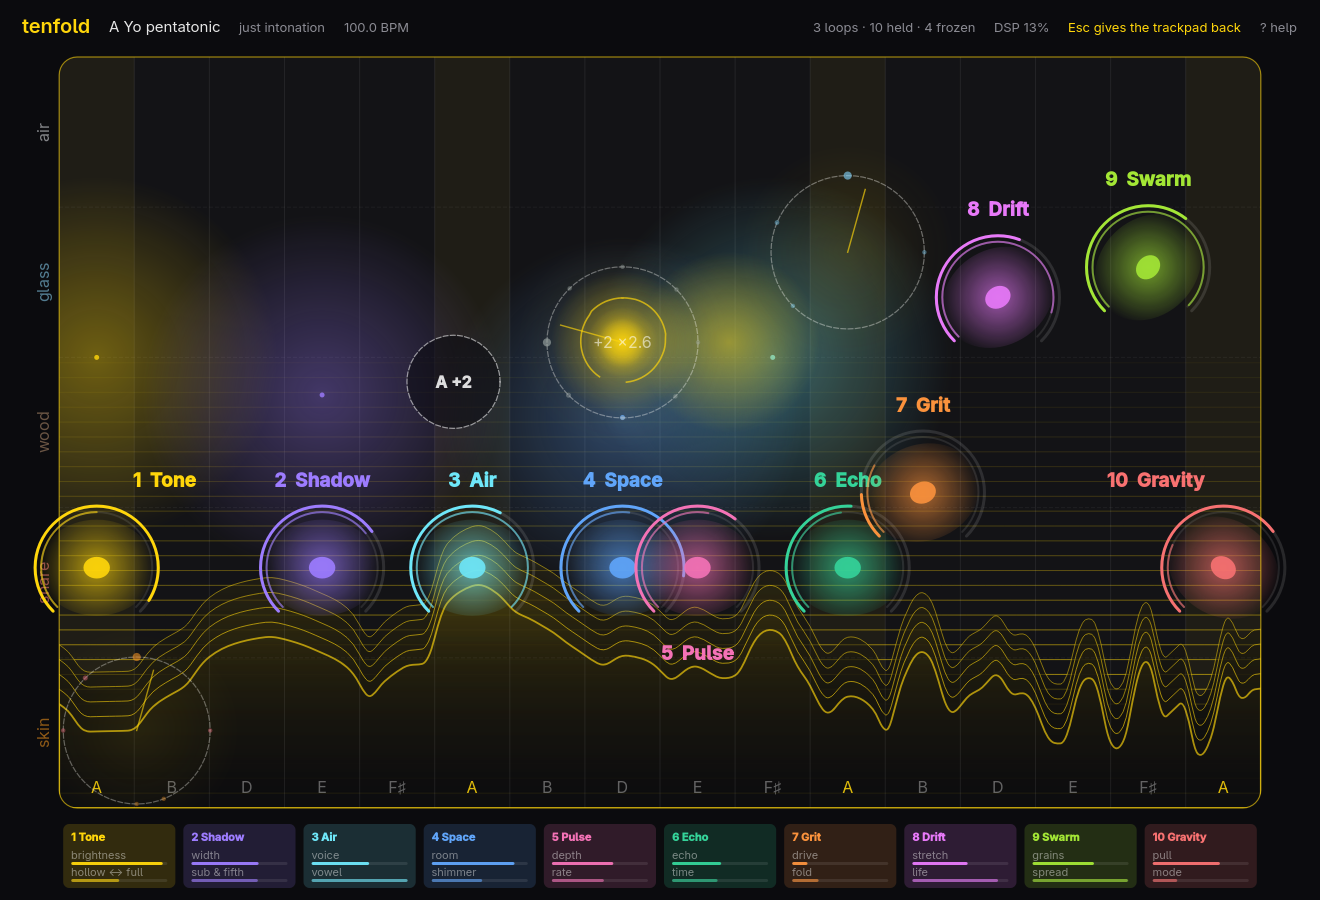
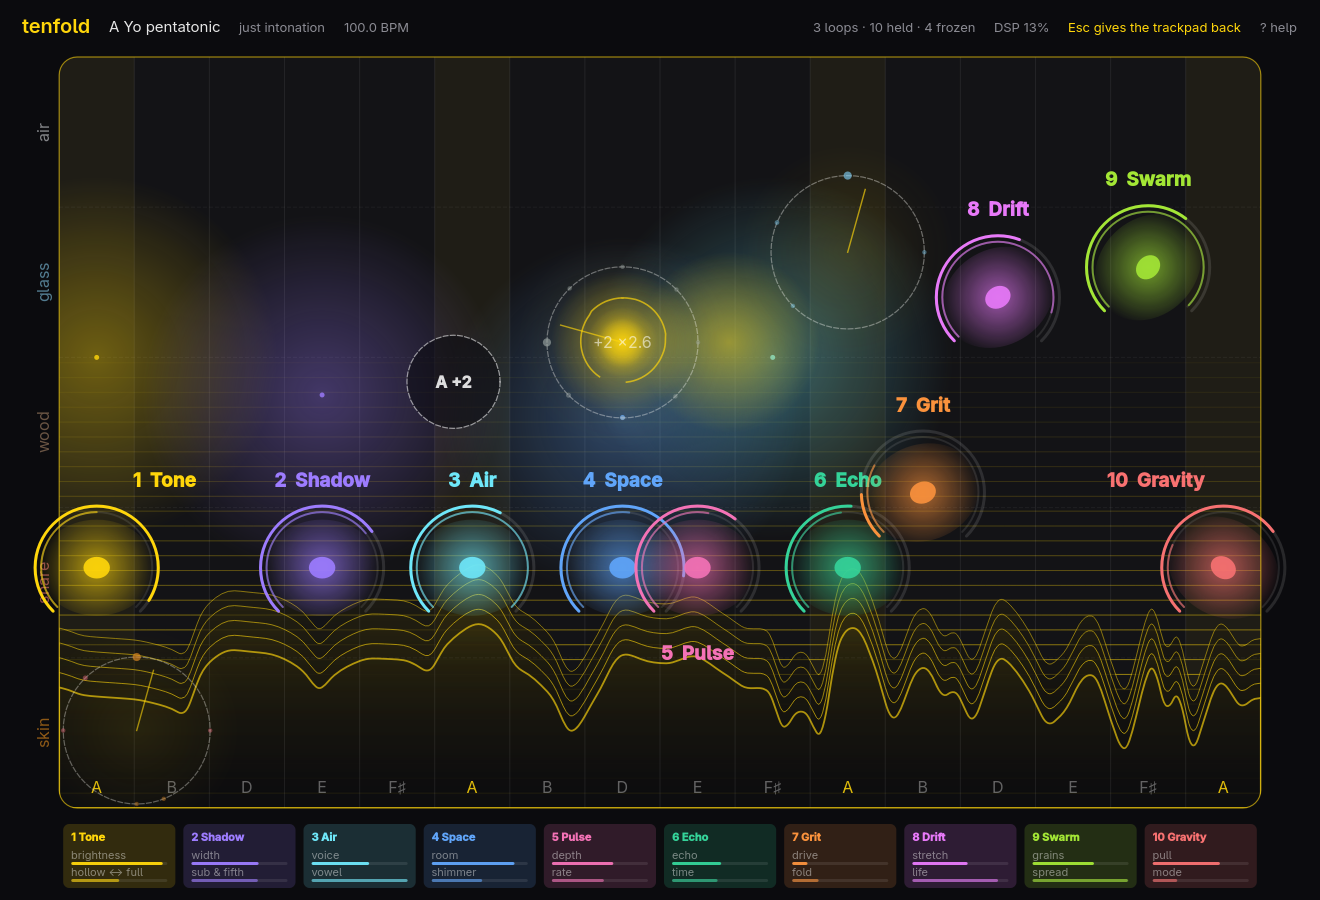
One finger blooms; the low end stays clear
A new voice opens from dark to bright over its first seconds, partials
arriving from the bottom up, breathing and flickering as you lean in.
Contact size only darkens a flat finger, not a fingertip. Sympathetic
ringing skips everything under ~120 Hz and can't stack. The master sums
the bass to mono and compresses the band under 150 Hz. Wood rings its
upper modes on a hard hit, the contact click is band-limited, a loop's
height sets how wet it is, a swipe hushes the notes its fingers struck,
and only a finger lost for one frame is re-attached.

Changed region(s): [[0.0311, 0.6222, 0.9629, 0.84]]

diff --git a/src/voices.h b/src/voices.h
@@ -65,6 +65,9 @@ struct DroneVoice {
     // Sympathetic ring: how much each partial has been set ringing by a
     // strike whose modes sit on it, decaying on its own.
     float freq[K], sym[K];
+    // Faster shimmer per partial, opened up by leaning into the pad.
+    float flick[K];
+    float age = 0, breathPhase = 0;
     float driftPitch = 0;
 
     Delay comb;
@@ -128,7 +131,10 @@ struct DroneVoice {
             driftA[i] = rng.bipolar();
             freq[i] = 0;
             sym[i] = 0;
+            flick[i] = 0;
         }
+        age = 0;
+        breathPhase = rng.unit();
         comb.clear();
         f1.reset();
         f2.reset();
@@ -159,23 +165,39 @@ struct DroneVoice {
             return;
         }
 
-        // Slow life: every partial wanders in pitch and level on its own.
+        // Slow life: every partial wanders in pitch and level on its own,
+        // and a quicker flicker rides on the upper ones as you lean in.
         const float life = tp.life;
         const float walk = std::sqrt(dt) * 0.9f;
+        const float quick = std::sqrt(dt) * 3.5f;
         for (int i = 0; i < K; ++i) {
             driftF[i] = clampf(driftF[i] * (1.0f - dt * 0.3f) + rng.bipolar() * walk, -1.0f, 1.0f);
             driftA[i] = clampf(driftA[i] * (1.0f - dt * 0.5f) + rng.bipolar() * walk, -1.0f, 1.0f);
+            flick[i] = clampf(flick[i] * (1.0f - dt * 6.0f) + rng.bipolar() * quick, -1.0f, 1.0f);
         }
+        age += dt;
+        // A slow breath of the whole spectrum, a few seconds long.
+        breathPhase += dt * (0.09f + 0.05f * life);
+        if (breathPhase > 1.0f)
+            breathPhase -= 1.0f;
         driftPitch = clampf(driftPitch * (1.0f - dt * 0.2f) + rng.bipolar() * walk * 0.15f, -1.0f, 1.0f);
 
         const float f0 = midiToHz(m + driftPitch * life * 0.12f);
-        const float alpha = lerpf(2.3f, 0.35f, clampf(tp.bright + 0.25f * p - 0.2f * sz, 0.0f, 1.0f));
+        // The bloom: a new voice starts dark and opens over its first few
+        // seconds, its partials arriving one after another from the bottom
+        // up. Leaning in opens it further; the breath keeps it moving.
+        const float bloom = 0.45f * std::exp(-age / 0.9f) - 0.12f * (1.0f - std::exp(-age / 2.5f));
+        const float breath = 0.06f * (0.4f + life) * std::sin(kTwoPi * breathPhase);
+        const float lean = 0.3f * p * p;
+        // A flat finger (bigger than a fingertip) is warmer and rounder.
+        const float flat = clampf(sz - 1.0f, 0.0f, 1.5f);
+        const float alpha = lerpf(2.3f, 0.35f, clampf(tp.bright + lean - 0.2f * flat + breath, 0.0f, 1.0f)) + bloom;
         const float evenGain = clampf(2.0f * tp.hollow, 0.0f, 1.0f);
         const float oddGain = clampf(2.0f * (1.0f - tp.hollow), 0.0f, 1.0f);
         const float B = tp.stretch * tp.stretch * 0.004f;
         const float widthRatio = tp.width * 0.0105f;
         float form[3];
-        vowelFormants(tp.vowel, form);
+        vowelFormants(clampf(tp.vowel + 0.12f * life * std::sin(kTwoPi * breathPhase * 0.7f + 1.3f), 0.0f, 1.0f), form);
         const float formantAmt = clampf(tp.voice * 1.3f, 0.0f, 1.0f);
         const float voicePan = clampf((x - 0.5f) * 0.9f, -0.6f, 0.6f);
 
@@ -185,7 +207,7 @@ struct DroneVoice {
             const float h = harm[i];
             float a;
             if (h == 0.5f)
-                a = 0.55f * tp.shadow + 0.35f * sz;
+                a = 0.55f * tp.shadow + 0.3f * clampf(sz - 1.0f, 0.0f, 1.5f);
             else if (h == 1.5f)
                 a = 0.3f * tp.shadow;
             else {
@@ -209,6 +231,13 @@ struct DroneVoice {
                 a *= lerpf(1.0f, env3 * 1.6f, formantAmt);
             }
             a *= 1.0f + life * 0.45f * driftA[i];
+            if (h > 4.0f)
+                a *= 1.0f + (0.15f + 0.6f * p) * life * flick[i];
+            if (!frozen) {
+                const float arrive = 0.035f * std::pow(h, 0.9f);
+                const float u = clampf((age - arrive) / 0.45f, 0.0f, 1.0f);
+                a *= u * u * (3.0f - 2.0f * u);
+            }
             amps[i] = a;
             energy += a * a;
             // Each ear gets a slightly different frequency, so partials beat
@@ -283,12 +312,20 @@ struct DroneVoice {
             return;
         // Only the few partials that can sit near each mode are checked: the
         // nearest harmonics, plus the sub and the fifth.
+        // Nothing rings below about 120 Hz: a kick that set the drone's
+        // fundamental booming would only pile up sub. Each partial has a cap
+        // and fills towards it more slowly the fuller it is, so a run of
+        // kicks can't stack.
+        constexpr float cap = 1.2f;
         auto ring = [&](int i, float hz, float amp) {
             if (i < 0 || i >= K || freq[i] <= 0)
                 return;
             const float off = std::fabs(freq[i] / hz - 1.0f);
-            if (off < 0.02f)
-                sym[i] = std::min(2.5f, sym[i] + amp * (1.0f - off / 0.02f) * vel * 1.4f);
+            if (off >= 0.02f)
+                return;
+            const float lowCut = clampf((freq[i] - 90.0f) / 130.0f, 0.0f, 1.0f);
+            const float add = amp * (1.0f - off / 0.02f) * vel * 1.4f * lowCut * lowCut;
+            sym[i] = std::min(cap, sym[i] + add * (1.0f - sym[i] / cap));
         };
         for (int m = 0; m < modes; ++m) {
             if (modeAmp[m] <= 0)
@@ -359,8 +396,8 @@ inline const Material &material(int i) {
          0.28f, 1.1f, 0.35f, 0.02f, 1.1f, 0, 0.7f, 0.11f, 4200.0f, 1.0f, 0},
         // Wood: a tuned bar, upper modes dying much faster than the note.
         {{1, 3.98f, 9.38f, 15.6f, 2.76f, 5.40f, 8.93f, 13.3f, 18.6f, 1.0f, 2.0f, 4.0f, 23.1f, 27.9f, 6.3f, 11.7f},
-         {1, .42f, .2f, .09f, .1f, .06f, .04f, .03f, .02f, .0f, .08f, .05f, .015f, .01f, .03f, .02f},
-         1.3f, 2.2f, 0.015f, 0.01f, 0.18f, 6.0f, 1.2f, 0.005f, 0, 1.6f, 0},
+         {1, .7f, .42f, .22f, .14f, .1f, .08f, .06f, .04f, .0f, .08f, .07f, .03f, .02f, .05f, .04f},
+         1.3f, 1.6f, 0.015f, 0.01f, 0.18f, 6.0f, 1.2f, 0.005f, 0, 1.6f, 0},
         // Glass: church-bell partials, the hum below the note, a long ring.
         {{0.5f, 1, 1.183f, 1.506f, 2.0f, 2.514f, 2.662f, 3.011f, 4.166f, 5.433f, 6.796f, 8.215f, 9.67f, 11.2f, 12.8f, 14.4f},
          {.55f, 1, .7f, .5f, .6f, .35f, .3f, .25f, .2f, .15f, .1f, .08f, .06f, .05f, .04f, .03f},
@@ -393,6 +430,7 @@ struct StrikeVoice {
     int pulseLen = 1, pulsePos = 0;
     float pulseNorm = 1;
     float fade = 1, fadeStep = 0; // a stolen voice fades instead of cutting
+    float wet = 1;                // how much goes to the echo and the room
     Svf noiseF, clickF;
     Rng rng;
 
@@ -419,14 +457,14 @@ struct StrikeVoice {
             // Higher modes and higher notes ring shorter, as in any real body;
             // a hard hit drives the upper modes harder, so they also last
             // longer above the noise.
-            float t60 = t60base / (1.0f + slope * float(i) * ratio * 0.25f / (1.0f + 1.2f * vel * vel));
+            float t60 = t60base / (1.0f + slope * float(i) * ratio * 0.25f / (1.0f + 3.0f * vel * vel));
             t60 *= clampf(std::pow(220.0f / std::max(f, 20.0f), 0.3f), 0.25f, 2.5f);
             w0[i] = kTwoPi * f / rate;
             hz[i] = f;
             rad[i] = (f > rate * 0.45f || f < 18.0f) ? 0.0f : std::exp(-6.9078f / (t60 * rate));
             // Soft hits lose their upper modes; hard ones with a small contact
             // lift them, for the whole ring, not just the click.
-            const float lift = 1.0f + 3.0f * vel * vel * clampf((ratio - 1.0f) / 3.0f, 0.0f, 1.0f) / clampf(contact, 0.8f, 2.0f);
+            const float lift = 1.0f + 4.0f * vel * vel * clampf((ratio - 1.0f) / 3.0f, 0.0f, 1.0f) / clampf(contact, 0.8f, 2.0f);
             float a = amp * lift * std::pow(std::max(ratio, 0.5f), -soft * hard);
             if (rad[i] == 0.0f)
                 a = 0;
@@ -463,7 +501,7 @@ struct StrikeVoice {
         clickAmp = g * vel * vel * 0.9f / clampf(contact, 0.7f, 2.0f);
         clickDecay = std::exp(-1.0f / (0.0012f * rate));
         clickF.reset();
-        clickF.set(std::min(2500.0f + 9000.0f * vel, rate * 0.42f), 0.7f, rate);
+        clickF.set(std::min(2200.0f + 3500.0f * vel, rate * 0.42f), 1.2f, rate);
         noisePanL = std::sqrt(0.5f * (1.0f - pan));
         noisePanR = std::sqrt(0.5f * (1.0f + pan));
         delay = startDelay;
@@ -472,6 +510,7 @@ struct StrikeVoice {
         level = g;
         fade = 1;
         fadeStep = 0;
+        wet = 1;
         active = true;
     }
 
@@ -487,7 +526,7 @@ struct StrikeVoice {
         return M;
     }
 
-    void render(float *l, float *r, int n) {
+    void render(float *l, float *r, int n, float *sendL = nullptr, float *sendR = nullptr) {
         int from = 0;
         if (delay > 0) {
             if (delay >= n) {
@@ -528,7 +567,7 @@ struct StrikeVoice {
                 sr += nz * noisePanR;
             }
             if (clickAmp > 1e-6f) {
-                const float c = clickF.step(rng.bipolar()).high * clickAmp;
+                const float c = clickF.step(rng.bipolar()).band * clickAmp * 1.6f;
                 clickAmp *= clickDecay;
                 sl += c * noisePanL;
                 sr += c * noisePanR;
@@ -544,6 +583,10 @@ struct StrikeVoice {
             }
             l[t] += sl;
             r[t] += sr;
+            if (sendL) {
+                sendL[t] += sl * wet;
+                sendR[t] += sr * wet;
+            }
         }
         for (int i = 0; i < M; ++i)
             energy += re[i] * re[i] + im[i] * im[i];

diff --git a/src/engine.cpp b/src/engine.cpp
@@ -82,7 +82,7 @@ struct Loop {
 struct Pending {
     double at; // absolute sample
     int degree;
-    float material, vel, x, gain;
+    float material, vel, x, gain, wet;
 };
 
 struct Engine::Impl {
@@ -121,7 +121,11 @@ struct Engine::Impl {
     Rng rng{0x5EED};
     int strikesFired = 0;
 
-    float bufDroneL[64], bufDroneR[64], bufHitL[64], bufHitR[64];
+    float bufDroneL[64], bufDroneR[64], bufHitL[64], bufHitR[64], bufSendL[64], bufSendR[64];
+    // Low end: summed to mono under 120 Hz and held in check by a
+    // compressor on the band below 150 Hz.
+    Svf sideLp, lowBand;
+    float lowEnv = 0;
 
 
     float cpu = 0, cpuPeak = 0;
@@ -153,6 +157,8 @@ Engine::Engine(float sampleRate) : m_rate(sampleRate), d(std::make_unique<Impl>(
     d->echo.init(sampleRate);
     d->swarm.init(sampleRate);
     d->limiter.init(sampleRate);
+    d->sideLp.set(120.0f, 0.7f, sampleRate);
+    d->lowBand.set(150.0f, 0.7f, sampleRate);
     d->mudL.set(300.0f, 0.8f, sampleRate);
     d->mudR.set(300.0f, 0.8f, sampleRate);
     d->airL.set(6500.0f, 0.7f, sampleRate);
@@ -541,6 +547,11 @@ void Engine::apply(const Command &c) {
     case Cmd::Damper:
         s.damperTarget = clampf(c.f[0], 0, 1);
         break;
+    case Cmd::Hush:
+        for (auto &v : s.strikes)
+            if (v.active && float(v.age) < c.f[0] * s.rate)
+                v.fadeStep = 1.0f / (0.03f * s.rate);
+        break;
     case Cmd::SetTuning:
         s.tuning.set(c.i1, c.i2, c.i3, c.f[0] > 0.5f);
         break;
@@ -599,6 +610,9 @@ void Engine::renderBlock(float *outL, float *outR, int n) {
     std::memset(dr, 0, sizeof(float) * n);
     std::memset(hl, 0, sizeof(float) * n);
     std::memset(hr, 0, sizeof(float) * n);
+    float *sl = s.bufSendL, *sr = s.bufSendR;
+    std::memset(sl, 0, sizeof(float) * n);
+    std::memset(sr, 0, sizeof(float) * n);
 
     // Loop lanes: replay what held fingers did while the loop was held.
     {
@@ -702,8 +716,11 @@ void Engine::renderBlock(float *outL, float *outR, int n) {
             const double smear = double(erosion * erosion) * 0.012 * s.rate * rng.bipolar();
             const double when = std::max(blockStart, at + smear);
             const float gain = 0.5f * lp.level * lp.fade;
+            // A loop's height is how wet it is: a kick left low stays dry, a
+            // bell pattern left high drowns in the room.
+            const float wet = 0.15f + 1.7f * std::pow(clampf(lp.homeY, 0, 1), 1.3f);
             if (s.pendingCount < kPending)
-                s.pending[s.pendingCount++] = {when, deg, mat, vel, h.x, gain};
+                s.pending[s.pendingCount++] = {when, deg, mat, vel, h.x, gain, wet};
             // Twisting right rolls each hit into ratchets and, further, adds
             // ghost notes between them; pressing hard doubles the rolls.
             int rolls = 0;
@@ -713,10 +730,10 @@ void Engine::renderBlock(float *outL, float *outR, int n) {
                 rolls = rolls * 2 + 1;
             const double step = s.bar / (lp.intensity > 1.3f ? 32.0 : 16.0);
             for (int k = 1; k <= rolls && s.pendingCount < kPending; ++k)
-                s.pending[s.pendingCount++] = {when + step * k, deg, mat, vel * std::pow(0.72f, float(k)), h.x, gain};
+                s.pending[s.pendingCount++] = {when + step * k, deg, mat, vel * std::pow(0.72f, float(k)), h.x, gain, wet};
             if (lp.density > 0.5f && rng.unit() < (lp.density - 0.5f) * 1.2f && s.pendingCount < kPending) {
                 const int hop = int(rng.next() % 3u) - 1;
-                s.pending[s.pendingCount++] = {when + step * (1 + int(rng.next() % 3u)), deg + hop, mat, vel * 0.35f, h.x, gain};
+                s.pending[s.pendingCount++] = {when + step * (1 + int(rng.next() % 3u)), deg + hop, mat, vel * 0.35f, h.x, gain, wet};
             }
             lp.flash = 1.0f;
         };
@@ -771,6 +788,7 @@ void Engine::renderBlock(float *outL, float *outR, int n) {
             const double midi = s.tuning.baseMidi() + s.tuning.degreeSemis(p.degree);
             slot.start(float(midi), p.material, p.vel, clampf((p.x - 0.5f) * 1.3f, -0.8f, 0.8f), p.gain,
                        int(std::max(0.0, p.at - blockStart)), s.rate);
+            slot.wet = p.wet;
             sympathetic(s, slot, p.vel * p.gain * 2.0f);
             ++s.strikesFired;
             p = s.pending[--s.pendingCount];
@@ -781,10 +799,10 @@ void Engine::renderBlock(float *outL, float *outR, int n) {
 
     for (auto &v : s.strikes)
         if (v.active)
-            v.render(hl, hr, n);
+            v.render(hl, hr, n, sl, sr);
     for (auto &v : s.ghosts)
         if (v.active)
-            v.render(hl, hr, n);
+            v.render(hl, hr, n, sl, sr);
 
     // Pulse: a tempo-locked swell and duck on the drones only, so taps and
     // loops cut through it.
@@ -834,8 +852,12 @@ void Engine::renderBlock(float *outL, float *outR, int n) {
             R = lerpf(R, gr, gritMix);
         }
 
+        // What goes to the echo and the room: everything as it is, except
+        // that loop hits go at their own loop's wetness.
+        const float sendL = L + (sl[i] - hl[i]), sendR = R + (sr[i] - hr[i]);
+
         float eL, eR;
-        s.echo.process(L, R, eL, eR);
+        s.echo.process(sendL, sendR, eL, eR);
         L += eL;
         R += eR;
 
@@ -846,9 +868,26 @@ void Engine::renderBlock(float *outL, float *outR, int n) {
         R += gR * swarmLevel;
 
         float rL, rR;
-        s.reverb.process(L * send + gL * 0.6f, R * send + gR * 0.6f, rL, rR);
+        s.reverb.process((sendL + eL) * send + gL * 0.6f, (sendR + eR) * send + gR * 0.6f, rL, rR);
         L += rL * wet;
         R += rR * wet;
+
+        // Low end: one bass in the middle, not two drifting apart, and a
+        // compressor on everything under 150 Hz so a dense landscape stays
+        // clear instead of filling up from the floor.
+        {
+            const float mid = 0.5f * (L + R);
+            float side = 0.5f * (L - R);
+            side -= s.sideLp.step(side).low;
+            const float low = s.lowBand.step(mid).low;
+            const float a = std::fabs(low);
+            s.lowEnv += (a - s.lowEnv) * (a > s.lowEnv ? 0.004f : 0.0001f);
+            constexpr float threshold = 0.1f; // about −20 dBFS
+            const float g = s.lowEnv > threshold ? std::pow(threshold / s.lowEnv, 0.66f) : 1.0f;
+            const float m2 = mid - (1.0f - g) * low;
+            L = m2 + side;
+            R = m2 - side;
+        }
 
         if (s.damper > 0.002f) {
             L = s.damperL.step(L).low * damperGain;

diff --git a/src/gesture.cpp b/src/gesture.cpp
@@ -113,6 +113,10 @@ void Gesture::frame(const Frame &f) {
                 // merely lost comes back as it was.
                 if (std::fabs(t.pressure - o.pressure) > 0.3f || std::fabs(t.size - o.size) > 0.4f * std::max(o.size, 0.3f))
                     continue;
+                // And only straight away: a frame lost is one frame (8 ms);
+                // anything longer is a finger that left and came back.
+                if (f.t - o.missingSince > 0.012)
+                    continue;
                 const float dx = (o.x - t.x) * m_aspect, dy = o.y - t.y;
                 const float d = std::sqrt(dx * dx + dy * dy);
                 if (d < best) {
@@ -421,6 +425,11 @@ void Gesture::finishSwipe(Contact &c, double now) {
     }
     notice(text);
     ++m_swipes;
+    // The fingers struck as they landed; a gesture shouldn't leave notes.
+    Command h;
+    h.type = Cmd::Hush;
+    h.f[0] = 0.7f;
+    send(h);
 }
 
 int Gesture::voiceDegree(const Contact &c) const {

diff --git a/src/engine.h b/src/engine.h
@@ -60,6 +60,7 @@ enum class Cmd : uint8_t {
     DissolveAll, // fade everything that is left sounding
     Damper,      // f0 0..1, a palm on the pad
     SetTuning,   // i1 root, i2 family, i3 brightness, f0 just
+    Hush,        // f0 seconds: fade out strikes younger than that (a swipe's own notes)
 };
 
 struct Command {
